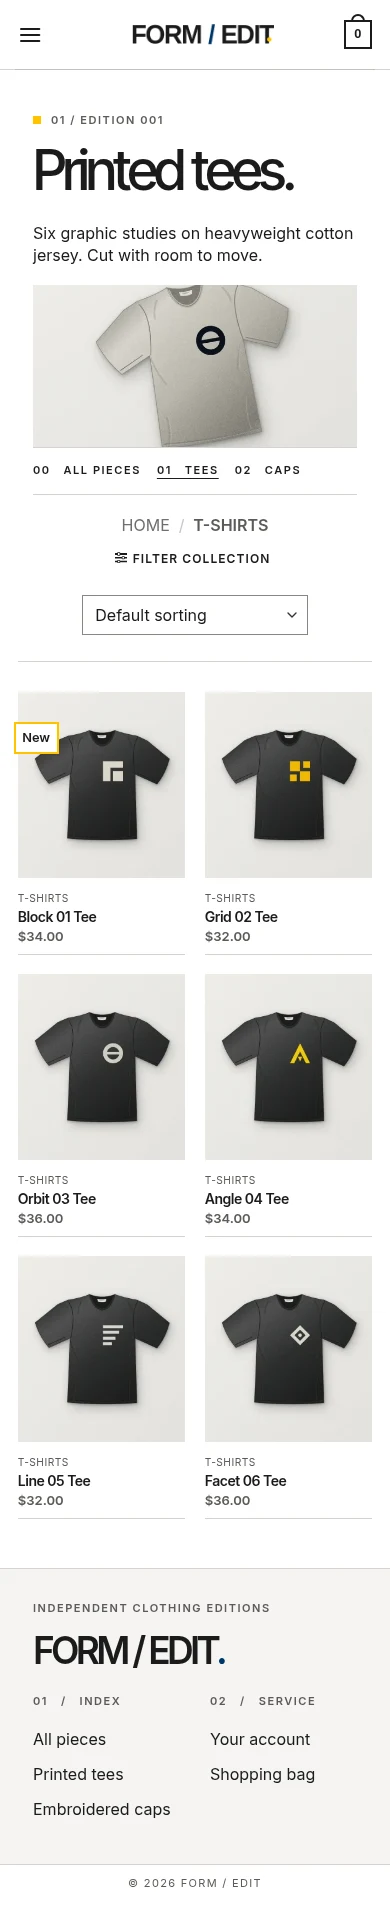
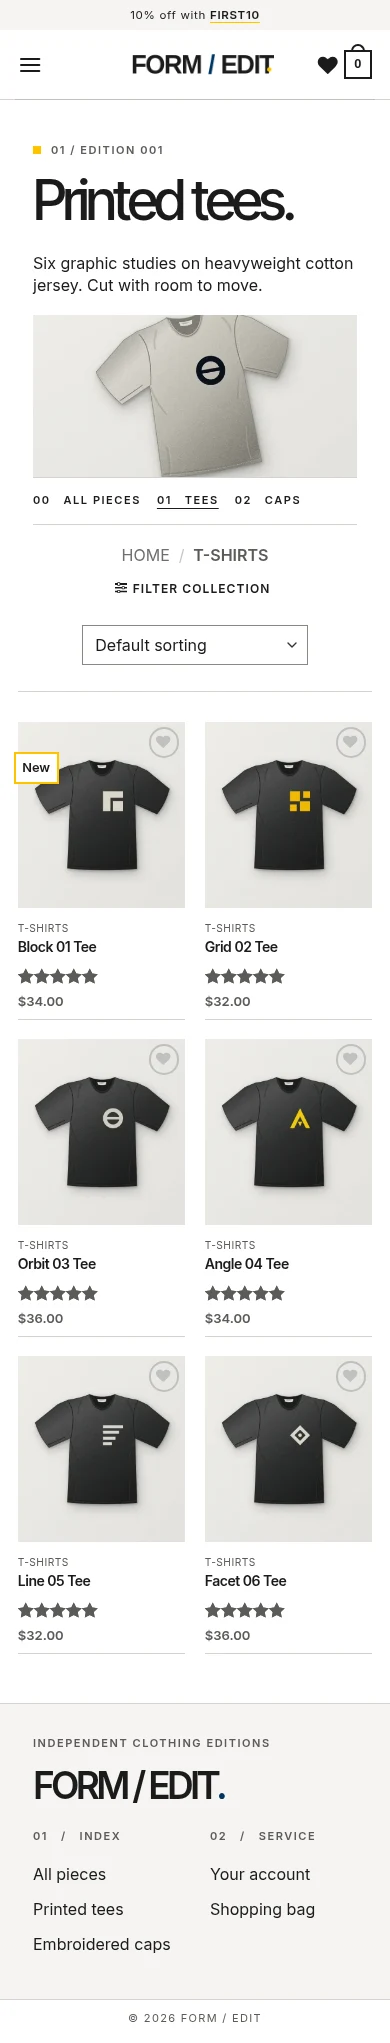
Add native shopping features to FORM / EDIT

diff --git a/solana-merch/child-theme/solana-merch-child/assets/storefront.css b/solana-merch/child-theme/solana-merch-child/assets/storefront.css
@@ -13,6 +13,17 @@
 	color-scheme: light;
 }
 
+.edit-promo { color: var(--edit-text); font-size: .72rem; letter-spacing: .06em; }
+.edit-promo strong { text-decoration: underline; text-decoration-color: var(--edit-yellow); text-underline-offset: .25em; }
+.edit-delivery { font-size: .86rem; border-block: 1px solid var(--edit-rule); padding-block: 8px; }
+.edit-shipping-progress { padding: 10px 0 16px; color: var(--edit-text); }
+.edit-shipping-progress p { margin: 0 0 5px; font-size: .84rem; }
+.edit-shipping-progress progress { display: block; width: 100%; height: 6px; border: 0; accent-color: var(--edit-yellow); background: var(--edit-gallery); }
+.edit-shipping-progress progress::-webkit-progress-bar { background: var(--edit-gallery); }
+.edit-shipping-progress progress::-webkit-progress-value { background: var(--edit-yellow); }
+.wishlist-icon .wishlist-popup { background: var(--edit-paper); color: var(--edit-text); }
+.wishlist-icon .wishlist-popup a { color: var(--edit-text); }
+
 body #wrapper, body #main { background: var(--edit-paper); }
 .header-main { border-bottom: 1px solid var(--edit-rule); }
 .header-main .header-inner { padding-inline: var(--edit-gutter); }

diff --git a/solana-merch/child-theme/solana-merch-child/style.css b/solana-merch/child-theme/solana-merch-child/style.css
@@ -2,6 +2,6 @@
 Theme Name: FORM / EDIT
 Description: An editorial Flatsome gallery for printed tees and embroidered caps.
 Template: flatsome
-Version: 2.1.0
+Version: 2.2.0
 Text Domain: solana-merch
 */

diff --git a/solana-merch/setup/seed.php b/solana-merch/setup/seed.php
@@ -178,6 +178,61 @@ function form_edit_seed_product_id( $slug, $sku ) {
 	return $id ?: $legacy_id;
 }
 
+function form_edit_seed_review( $product_id, $hat ) {
+	$existing = get_comments( array(
+		'post_id' => $product_id,
+		'type' => 'review',
+		'meta_key' => '_form_edit_demo_review',
+		'number' => 1,
+	) );
+	$review = array(
+		'comment_post_ID' => $product_id,
+		'comment_type' => 'review',
+		'comment_author' => 'FORM / EDIT demo reviewer',
+		'comment_content' => $hat
+			? 'Sample review: The adjustable strap made it easy to find a comfortable fit.'
+			: 'Sample review: The cotton has a good weight and the graphic is crisp.',
+		'comment_approved' => 1,
+		'comment_meta' => array( 'rating' => 5, '_form_edit_demo_review' => 1 ),
+	);
+	if ( $existing ) {
+		$comment_id = (int) $existing[0]->comment_ID;
+		if ( '1' !== $existing[0]->comment_approved ) {
+			wp_set_comment_status( $comment_id, 'approve' );
+		}
+		update_comment_meta( $comment_id, 'rating', 5 );
+	} else {
+		$comment_id = wp_insert_comment( $review );
+	}
+	if ( ! $comment_id ) {
+		WP_CLI::error( "Could not insert sample review for product {$product_id}." );
+	}
+	WC_Comments::clear_transients( $product_id );
+}
+
+function form_edit_seed_shipping() {
+	$zone_id = (int) get_option( 'form_edit_demo_shipping_zone' );
+	$zone = new WC_Shipping_Zone( $zone_id ?: null );
+	if ( ! $zone->get_id() ) {
+		$zone->set_zone_name( 'FORM / EDIT Demo — United States' );
+		$zone->add_location( 'US', 'country' );
+		$zone->save();
+		update_option( 'form_edit_demo_shipping_zone', $zone->get_id() );
+	}
+	$methods = array();
+	foreach ( $zone->get_shipping_methods() as $method ) {
+		$methods[ $method->id ] = $method->instance_id;
+	}
+	foreach ( array(
+		'free_shipping' => array( 'title' => 'Free shipping', 'requires' => 'min_amount', 'min_amount' => '75', 'ignore_discounts' => 'no' ),
+		'flat_rate'     => array( 'title' => 'Standard shipping', 'cost' => '6', 'tax_status' => 'none' ),
+	) as $method_id => $settings ) {
+		$instance = $methods[ $method_id ] ?? $zone->add_shipping_method( $method_id );
+		update_option( "woocommerce_{$method_id}_{$instance}_settings", $settings );
+	}
+	WC_Cache_Helper::get_transient_version( 'shipping', true );
+}
+
 function signal_seed_product( $id, $category, $hat, $record, $index ) {
 	list( $slug, $sku, $title, $price, $intro ) = $record;
 	$ink    = signal_seed_media( $slug . '-ink.webp', $title . ' in Ink, front view' );
@@ -199,6 +254,7 @@ function signal_seed_product( $id, $category, $hat, $record, $index ) {
 	$product->set_status( 'publish' );
 	$product->set_catalog_visibility( 'visible' );
 	$product->set_featured( $index < 2 );
+	$product->set_reviews_allowed( true );
 	$product->set_menu_order( $index * 2 + (int) $hat );
 	$product->set_category_ids( array( $category ) );
 	$product->set_short_description( $intro );
@@ -254,11 +310,15 @@ function signal_seed_product( $id, $category, $hat, $record, $index ) {
 		}
 		$variation->set_status( 'publish' );
 		$variation->set_regular_price( $price );
+		$low = $index < 2 && 'Stone' === $attributes['color'] && ( $hat || 'M' === $attributes['size'] );
+		$variation->set_manage_stock( $low );
+		$variation->set_stock_quantity( $low ? 2 : null );
 		$variation->set_stock_status( 'instock' );
 		$variation->set_image_id( 'Ink' === $attributes['color'] ? $ink : $stone );
 		$variation->save();
 	}
 	WC_Product_Variable::sync( $id );
+	form_edit_seed_review( $id, $hat );
 	return $id;
 }
 
@@ -326,6 +386,10 @@ $existing_products = array();
 foreach ( array_merge( $tees, $hats ) as list( $slug, $sku ) ) {
 	$existing_products[ $slug ] = form_edit_seed_product_id( $slug, $sku );
 }
+$coupon = new WC_Coupon( 'first10' );
+if ( $coupon->get_id() && ! $coupon->get_meta( '_signal_demo' ) ) {
+	WP_CLI::error( 'Coupon FIRST10 already belongs to non-demo content.' );
+}
 
 WC_Install::create_pages();
 $cart = get_post( wc_get_page_id( 'cart' ) );
@@ -348,6 +412,26 @@ if ( $cart && has_block( 'woocommerce/cart', $cart ) ) {
 }
 update_option( 'woocommerce_coming_soon', 'no' );
 update_option( 'woocommerce_currency', 'USD' );
+update_option( 'woocommerce_default_country', 'US' );
+update_option( 'woocommerce_enable_coupons', 'yes' );
+update_option( 'woocommerce_enable_reviews', 'yes' );
+update_option( 'woocommerce_enable_review_rating', 'yes' );
+update_option( 'woocommerce_manage_stock', 'yes' );
+update_option( 'woocommerce_stock_format', 'low_amount' );
+update_option( 'woocommerce_notify_low_stock_amount', 2 );
+$coupon->set_code( 'first10' );
+$coupon->set_discount_type( 'percent' );
+$coupon->set_amount( 10 );
+$coupon->set_usage_limit_per_user( 1 );
+$coupon->update_meta_data( '_signal_demo', 1 );
+$coupon->save();
+form_edit_seed_shipping();
+$cod = (array) get_option( 'woocommerce_cod_settings', array() );
+update_option( 'woocommerce_cod_settings', array( 'enabled' => 'yes', 'enable_for_methods' => array() ) + $cod );
+if ( class_exists( 'YITH_WCWL' ) && ! get_post( (int) get_option( 'yith_wcwl_wishlist_page_id' ) ) ) {
+	$wishlist = signal_seed_post( 'page', 'wishlist', 'Wishlist', '[yith_wcwl_wishlist]' );
+	update_option( 'yith_wcwl_wishlist_page_id', $wishlist );
+}
 update_option( 'blogname', 'FORM / EDIT' );
 update_option( 'blogdescription', 'Independent clothing editions' );
 $tees_image = signal_seed_media( 'collection-tees.webp', 'Orbit 03 Tee in Stone' );
@@ -438,9 +522,9 @@ $mods = array(
 	'header_color'                   => 'light',
 	'header_height'                  => 72,
 	'header_elements_left'           => array( 'nav' ),
-	'header_elements_right'          => array( 'search', 'account', 'cart' ),
+	'header_elements_right'          => array( 'search', 'account', 'wishlist', 'cart' ),
 	'header_mobile_elements_left'    => array( 'menu-icon' ),
-	'header_mobile_elements_right'   => array( 'cart' ),
+	'header_mobile_elements_right'   => array( 'wishlist', 'cart' ),
 	'mobile_sidebar'                 => array( 'search-form', 'nav', 'account' ),
 	'header_cart_style'              => 'off-canvas',
 	'header_cart_total'              => 0,
@@ -448,7 +532,18 @@ $mods = array(
 	'header_cart_qty'                => 1,
 	'header_account_title'           => 0,
 	'cart_icon'                      => 'bag',
-	'topbar_show'                    => 0,
+	'topbar_show'                    => 1,
+	'topbar_bg'                      => '#F5F4F2',
+	'topbar_color'                   => 'light',
+	'topbar_elements_left'           => array(),
+	'topbar_elements_right'          => array(),
+	'topbar_elements_center'         => array( 'html' ),
+	'header_mobile_elements_top'     => array( 'html' ),
+	'topbar_left'                    => signal_seed_render( 'promo-topbar', array() ),
+	'live_search'                    => 1,
+	'header_search_style'           => 'dropdown',
+	'wishlist_icon'                  => 'heart',
+	'wishlist_title'                 => 0,
 	'header_sticky'                  => 1,
 	'body_layout'                    => 'full-width',
 	'site_width'                     => 1440,
@@ -478,12 +573,15 @@ $mods = array(
 	'category_row_count_mobile'      => 2,
 	'products_pr_page'               => 12,
 	'product_box_category'           => 1,
+	'product_box_rating'             => 1,
 	'product_hover'                  => 'fade_in_back',
 	'disable_quick_view'             => 0,
 	'product_next_prev_nav'          => 0,
 	'product_layout'                 => 'stacked-right',
 	'product_upsell'                 => 'bottom',
 	'product_sticky_cart'            => 1,
+	'product_buy_now'                => 1,
+	'product_buy_now_redirect'       => 'checkout',
 	'product_image_width'            => 7,
 	'footer_block'                   => $footer,
 	'footer_bottom_color'            => '#FFFFFF',

diff --git a/solana-merch/setup/check-demo.php b/solana-merch/setup/check-demo.php
@@ -24,6 +24,17 @@ signal_check( $home && has_shortcode( $home->post_content, 'ux_products' ) && fa
 signal_check( 'stacked-right' === get_theme_mod( 'product_layout' ) && 'fade_in_back' === get_theme_mod( 'product_hover' ), 'Expected the native stacked product gallery and second-image hover.' );
 signal_check( has_shortcode( $home->post_content, 'form_edit_newsletter' ) && false !== strpos( $home->post_content, 'edit-process' ), 'Expected the editorial process and newsletter modules.' );
 signal_check( get_theme_mod( 'product_sticky_cart' ) && 'bottom' === get_theme_mod( 'product_upsell' ), 'Expected native sticky cart and below-description upsells.' );
+signal_check( class_exists( 'YITH_WCWL' ) && in_array( 'wishlist', get_theme_mod( 'header_elements_right', array() ), true ), 'Expected YITH Wishlist and its native Flatsome header element.' );
+signal_check( (int) get_option( 'yith_wcwl_wishlist_page_id' ) > 0 && get_post( (int) get_option( 'yith_wcwl_wishlist_page_id' ) ), 'Expected a configured YITH Wishlist page.' );
+signal_check( get_theme_mod( 'live_search' ) && ! get_theme_mod( 'disable_quick_view' ) && get_theme_mod( 'product_buy_now' ), 'Expected native live search, Quick View, and Buy Now.' );
+$coupon = new WC_Coupon( 'first10' );
+signal_check( 'percent' === $coupon->get_discount_type() && 10.0 === (float) $coupon->get_amount() && false !== strpos( get_theme_mod( 'topbar_left' ), 'FIRST10' ), 'Expected working FIRST10 top bar promotion.' );
+$shipping = new WC_Shipping_Zone( (int) get_option( 'form_edit_demo_shipping_zone' ) );
+$free = array_filter( $shipping->get_shipping_methods( true ), static function ( $method ) {
+	return 'free_shipping' === $method->id && 'min_amount' === $method->requires && 75.0 === (float) $method->min_amount && 'no' === $method->ignore_discounts;
+} );
+signal_check( 1 === count( $free ) && 'yes' === ( get_option( 'woocommerce_cod_settings' )['enabled'] ?? '' ), 'Expected $75 after discounts for free shipping and demo COD.' );
+signal_check( 'Jan 7' === form_edit_delivery_date( new DateTimeImmutable( '2026-01-02T12:00:00Z' ), 3 ), 'Delivery estimate must skip weekends.' );
 foreach ( array( 'woocommerce_layered_nav', 'woocommerce_price_filter' ) as $widget ) {
 	signal_check( is_active_widget( false, false, $widget ), "Missing WooCommerce catalog widget {$widget}." );
 }
@@ -46,6 +57,7 @@ signal_check( 12 === count( $products ), 'Expected 12 demo products.' );
 
 $counts = array( 't-shirts' => 0, 'hats' => 0 );
 $total = 0;
+$low_stock = 0;
 foreach ( $products as $product_id ) {
 	$product = wc_get_product( $product_id );
 	$sku = 'FE-' . strtoupper( sanitize_title( $product->get_name() ) );
@@ -56,6 +68,8 @@ foreach ( $products as $product_id ) {
 	$header = get_term_meta( $product->get_category_ids()[0], 'cat_meta', true );
 	signal_check( has_shortcode( $header['cat_header'] ?? '', 'block' ), "Missing native category header for {$terms[0]}." );
 	signal_check( $product->is_type( 'variable' ) && $product->get_image_id() && 2 === count( $product->get_gallery_image_ids() ), "Expected variable product {$product_id} with three catalog images." );
+	$sample_reviews = get_comments( array( 'post_id' => $product_id, 'type' => 'review', 'meta_key' => '_form_edit_demo_review', 'count' => true ) );
+	signal_check( 1 === (int) $sample_reviews && $product->get_average_rating() > 0, "Missing or duplicate sample rating for {$product_id}." );
 
 	$sizes = 't-shirts' === $terms[0] ? array( 'S', 'M', 'L', 'XL' ) : array( 'One size' );
 	$filter_sizes = wp_get_post_terms( $product_id, 'pa_size', array( 'fields' => 'names' ) );
@@ -76,6 +90,9 @@ foreach ( $products as $product_id ) {
 		$attributes = $variation->get_attributes();
 		$actual[] = ( $attributes['size'] ?? '' ) . '|' . ( $attributes['color'] ?? '' );
 		signal_check( $variation->is_in_stock() && $variation->is_purchasable() && $variation->get_image_id( 'edit' ), "Variation {$variation_id} must be purchasable and have color artwork." );
+		if ( $variation->managing_stock() && 2 === $variation->get_stock_quantity() ) {
+			++$low_stock;
+		}
 	}
 	sort( $actual );
 	sort( $expected );
@@ -83,4 +100,5 @@ foreach ( $products as $product_id ) {
 	$total += count( $actual );
 }
 signal_check( array( 't-shirts' => 6, 'hats' => 6 ) === $counts, 'Expected six tees and six hats.' );
+signal_check( 4 === $low_stock, 'Expected four low-stock demo variations.' );
 WP_CLI::success( "Native demo structure verified: 12 variable products, {$total} purchasable variations, two categories and seeded UX Blocks." );

diff --git a/solana-merch/child-theme/solana-merch-child/functions.php b/solana-merch/child-theme/solana-merch-child/functions.php
@@ -15,6 +15,68 @@ add_action( 'woocommerce_single_product_summary', function () {
 	}
 }, 4 );
 
+function form_edit_shipping_progress() {
+	$zone_id = (int) get_option( 'form_edit_demo_shipping_zone' );
+	$cart = WC()->cart;
+	if ( ! $zone_id || ! $cart || $cart->is_empty() || ! $cart->needs_shipping() ) {
+		return;
+	}
+	$packages = $cart->get_shipping_packages();
+	if ( ! $packages ) {
+		return;
+	}
+	foreach ( $packages as $package ) {
+		$zone = WC_Shipping_Zones::get_zone_matching_package( $package );
+		if ( $zone_id !== $zone->get_id() ) {
+			return;
+		}
+	}
+	foreach ( $zone->get_shipping_methods( true ) as $method ) {
+		if ( 'free_shipping' !== $method->id || 'min_amount' !== $method->requires ) {
+			continue;
+		}
+		$minimum = (float) $method->min_amount;
+		$subtotal = $cart->get_displayed_subtotal();
+		if ( 'no' === $method->ignore_discounts ) {
+			$subtotal -= $cart->get_discount_total();
+			if ( $cart->display_prices_including_tax() ) {
+				$subtotal -= $cart->get_discount_tax();
+			}
+		}
+		$subtotal = round( $subtotal, wc_get_price_decimals() );
+		$left = max( 0, $minimum - $subtotal );
+		$label = $left > 0 ? sprintf( '%s away from free US shipping', wc_price( $left ) ) : 'You qualify for free US shipping';
+		echo '<div class="edit-shipping-progress"><p>' . wp_kses_post( $label ) . '</p><progress aria-label="Progress toward free shipping" max="100" value="' . esc_attr( $minimum > 0 ? min( 100, max( 0, $subtotal / $minimum * 100 ) ) : 100 ) . '"></progress></div>';
+		break;
+	}
+}
+add_action( 'woocommerce_before_cart_table', 'form_edit_shipping_progress' );
+add_action( 'woocommerce_widget_shopping_cart_before_buttons', 'form_edit_shipping_progress' );
+
+function form_edit_delivery_date( $date, $days ) {
+	while ( $days > 0 ) {
+		$date = $date->modify( '+1 day' );
+		if ( (int) $date->format( 'N' ) <= 5 ) {
+			--$days;
+		}
+	}
+	return wp_date( 'M j', $date->getTimestamp(), $date->getTimezone() );
+}
+
+add_action( 'woocommerce_single_product_summary', function () {
+	$product = wc_get_product( get_the_ID() );
+	if ( ! $product || ! $product->get_meta( '_signal_demo' ) || ! $product->needs_shipping() || ! $product->is_in_stock() ) {
+		return;
+	}
+	list( $first, $last ) = apply_filters( 'form_edit_delivery_business_days', array( 3, 5 ), $product );
+	$first = max( 0, (int) $first );
+	$last = max( $first, (int) $last );
+	$today = current_datetime();
+	$start = form_edit_delivery_date( $today, $first );
+	$end = form_edit_delivery_date( $today, $last );
+	echo '<p class="edit-delivery"><strong>Estimated US delivery</strong> ' . esc_html( $start === $end ? $start : "$start – $end" ) . '</p>';
+}, 27 );
+
 add_filter( 'woocommerce_dropdown_variation_attribute_options_html', function ( $html, $args ) {
 	$product = $args['product'];
 	$name = sanitize_title( $args['attribute'] );

diff --git a/solana-merch/README.md b/solana-merch/README.md
@@ -22,6 +22,7 @@ Yêu cầu: WordPress, WooCommerce, Flatsome có bản quyền, WP-CLI và thư 
 
    ```sh
    wp plugin activate woocommerce
+   wp plugin install yith-woocommerce-wishlist --activate
    wp theme activate solana-merch-child
    wp eval-file /path/to/solana-merch/setup/seed.php
    wp rewrite flush
@@ -42,6 +43,11 @@ Seed tạo 2 danh mục và 12 sản phẩm biến thể (6 áo, 6 mũ); áo có
 | Shop | `/shop/` | [Ảnh](previews/shop-desktop-light.webp) | — |
 | Cart | `/cart/` | [Ảnh](previews/cart-desktop-light.webp) | — |
 | Mini-cart | Mở biểu tượng túi hàng | [Ảnh](previews/mini-cart-desktop-light.webp) | — |
+| Quick View | Mở Quick View trên lưới Shop | [Ảnh](previews/quick-view-desktop-light.webp) | — |
+| Wishlist | `/wishlist/` | [Ảnh](previews/wishlist-desktop-light.webp) | — |
+| Tìm kiếm trực tiếp | Mở biểu tượng tìm kiếm | [Ảnh](previews/live-search-desktop-light.webp) | — |
+| Checkout | `/checkout/` | [Ảnh](previews/checkout-desktop-light.webp) | — |
+| Xác nhận đơn hàng | Sau khi đặt hàng | [Ảnh](previews/order-received-desktop-light.webp) | — |
 
 - **Homepage:** Pages → Home → **Edit with UX Builder**. Dùng Section, Row, Column, Text, Image, Button và Products gốc cho dải thông tin mua hàng, lookbook, câu chuyện, quy trình in/thêu, nhận xét mẫu và lưới ảnh tĩnh (không kết nối Instagram). Shortcode `[form_edit_newsletter]` gửi yêu cầu qua `wp_mail` đến email quản trị; cấu hình SMTP hoặc thay bằng biểu mẫu của dịch vụ email marketing trước khi mở bán. Demo không tự gửi newsletter hoặc thêm người dùng vào một danh sách bên ngoài.
 - **Category/Shop:** lưới hiển thị ảnh thứ hai khi rê chuột bằng thiết lập **Back Image – Fade In** của Flatsome. Mở **FORM / EDIT — Printed tees / Embroidered caps / Edition 01** trong **UX Blocks** để sửa banner. Nút **Filter collection** mở Shop Sidebar gốc; chỉnh các widget WooCommerce lọc size, màu và giá trong **Appearance → Widgets**. Size/màu toàn cục dùng riêng cho bộ lọc, không thay thuộc tính của biến thể đã có. Mẫu đầu mỗi danh mục có nhãn **New**; Flatsome hiển thị nhãn hết hàng khi sản phẩm thực sự hết hàng và cấu hình WooCommerce cho phép hiện sản phẩm đó.
@@ -51,3 +57,12 @@ Seed tạo 2 danh mục và 12 sản phẩm biến thể (6 áo, 6 mũ); áo có
 - `ux-builder/*.txt` là bản mã nguồn shortcode; seed điền các token `{{…}}` bằng URL, ID và nội dung thực. Nếu dán thủ công, đổi token trước khi lưu. Không ghi đè mẫu Flatsome hay WooCommerce.
 
 Ảnh WebP sẵn trong `child-theme/solana-merch-child/assets/art/`. Có thể tạo lại bằng `python3 setup/make-art.py` (cần CairoSVG, Pillow và Liberation Sans). Đây là render minh họa studio, không phải ảnh chụp sản phẩm thật. Trước khi mở bán, thay hàng mẫu và thiết lập thanh toán, vận chuyển, thuế, tồn kho cùng các chính sách của cửa hàng.
+
+### Tính năng mua sắm
+
+- **Quick View, tìm kiếm trực tiếp và Buy Now** dùng chức năng gốc của Flatsome. Trên trang sản phẩm, chọn biến thể trước khi bấm Buy Now; sản phẩm được thêm vào giỏ rồi chuyển sang checkout.
+- **Wishlist** dùng YITH WooCommerce Wishlist bản miễn phí. Nút tim và bộ đếm dùng Header Builder và tích hợp gốc của Flatsome; không đóng gói mã plugin.
+- **Ưu đãi:** top bar hiển thị mã **FIRST10** (giảm 10%, một lần mỗi khách). Sửa nội dung từ Header Builder → Top Bar → HTML 1 hoặc `ux-builder/promo-topbar.txt`; quản lý mã trong WooCommerce.
+- **Giao hàng demo ở Hoa Kỳ:** tiêu chuẩn $6, miễn phí từ $75 sau giảm giá. Thanh tiến độ ở giỏ và mini-cart dùng ngưỡng của phương thức WooCommerce trong vùng demo. Ước tính mặc định 3–5 ngày làm việc (bỏ qua thứ Bảy và Chủ nhật); chỉnh bằng filter `form_edit_delivery_business_days`.
+- **Đánh giá và tồn kho:** mỗi sản phẩm có một đánh giá mẫu được ghi rõ là “Sample review”; không phải đánh giá của khách thật. Bốn biến thể Stone có 2 sản phẩm để hiện thông báo sắp hết hàng. Seed đặt lại tồn kho mẫu khi chạy lại.
+- **Thanh toán khi giao hàng (COD)** được bật để thử checkout mà không cần thẻ. Trước khi mở bán, thay cấu hình giao hàng và thanh toán demo, xóa đánh giá mẫu, và đặt lại tồn kho cho đúng hàng thật.
